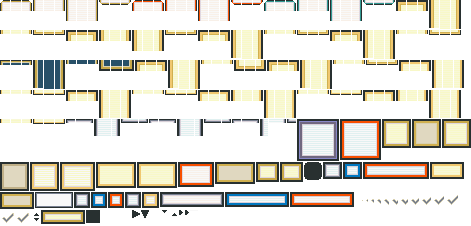
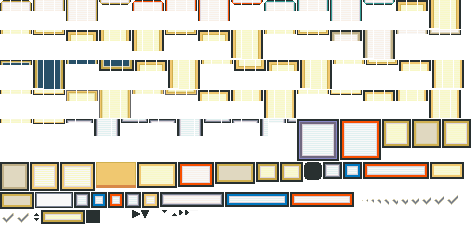
FireRed 0.24: the bag, trainer card and dex get their own screens
Bag: a bag-list role paints the list frame grey/gold/pale-yellow off the
Interface & Bag kit, a bespoke painter gives the selected pocket tab its
flat gold face and D88848 open-pocket underline, and the item square
moves to ui-box.background, which already carries a selected state.

Trainer card: MainTCTexture is one 454x287 stretched slice, so a
paint_trainer_card painter draws the whole card - teal 1:3 ground,
rounded grey-ringed white card, 68A0D8 header band, 1:1 scanlined body,
eight rounded badge slots. Until now it was a glyph recolour of stock.

Dex: ui-inner-frame-tabbed-dex gets a taupe-over-tan dex-frame role.

The atlas builder grows a per-atlas special={name: painter} hook for
slices that are compositions rather than panels. info.xml description
also loses the copy-paste garble it had carried since 0.2x.

Smoke-tested on the macOS client: 0.24 applied, theme loads in 375ms,
no errors. In-game screens await a logged-in test.

Claude-Session: https://claude.ai/code/session_017SQ5osqtQSVmm6Uk3D2pzF

diff --git a/tools/build_firered_atlas.py b/tools/build_firered_atlas.py
@@ -90,6 +90,16 @@ TAN      = (0xE0, 0xD8, 0xC0)
 TEAL     = (0x30, 0x98, 0x90)
 TEAL_LT  = (0x50, 0xC8, 0xB0)
 DISABLED = (0xC0, 0xB0, 0x88)
+# The bag list panel and pocket tabs, off the Interface & Bag kit.
+BAG_GREY  = (0x68, 0x68, 0x68)   # its outer ring is grey, not #283030
+BAG_BEVEL = (0xE8, 0xE0, 0xA8)
+ORANGE_UL = (0xD8, 0x88, 0x48)   # the open-pocket underline
+# The trainer card, off the Trainer Card Kit.
+CARD_GREY   = (0x60, 0x60, 0x70)
+CARD_ACC    = (0xA0, 0xA0, 0xA0)
+HEADER_BLUE = (0x68, 0xA0, 0xD8)
+HEADER_EDGE = (0x48, 0x78, 0xA8)
+CARD_ICE    = (0xE0, 0xF0, 0xF0)
 # Read straight off the HP Bars kit in PokemonFireRedRef/001/, which agrees
 # pixel for pixel with what was measured from the screenshots earlier.
 HP_SHADOW = (0x50, 0x68, 0x60)   # the plate's drop shadow
@@ -144,6 +154,12 @@ ROLES = {
                                                           (HP_FILL, HP_FILL), False),
     "hpbar":      ([(HP_TRACK, 1)],                       (HP_GREEN, HP_GREEN2), False),
     "hpbar-gold": ([(HP_TRACK, 1)],                       (HP_GOLD, HP_GOLD), False),
+    # The bag list panel, measured off the Interface & Bag kit: grey outer,
+    # double gold band, warm bevel, pale-yellow fill. Square corners.
+    "bag-list":   ([(BAG_GREY, 2), (GOLD_LT, 3), (GOLD_DK, 2), (BAG_BEVEL, 1)],
+                                                          (PALE, PALE_2),   False),
+    # The dex frame: taupe over tan, the one screen FireRed keeps earthy.
+    "dex-frame":  ([(OUTER, 2), (DISABLED, 2), (TAN, 1)], (CREAM, WHITE),   False),
 }
 
 # name prefix -> role. Longest prefix wins, so specific beats general.
@@ -152,7 +168,9 @@ ROLE_BY_PREFIX = [
     ("ui-frame-green",            "frame-green"),
     ("ui-frame",                  "frame"),
     ("ui-inner-frame-inverted",   "inverted"),
+    ("ui-inner-frame-tabbed-dex", "dex-frame"),
     ("ui-inner-frame-tabbed",     "inner"),
+    ("ui-inner-frame-tab2",       "bag-list"),
     ("ui-inner-frame-tab",        "tab"),
     ("ui-inner-tab",              "tab"),
     ("ui-inner-roundedframe",     "inner"),
@@ -334,6 +352,82 @@ def role_ingame(name):
     return None
 
 
+def paint_bag_tab(px, rect):
+    """The bag's selected pocket tab, off the Interface & Bag kit: flat
+    light-gold face, dark-gold ring, and the orange underline FireRed uses to
+    mark the open pocket. Flat is correct here -- accent bars are the one
+    surface the spec leaves unstriped. Stock splits (L12,R12, no splity)
+    stretch the middle, and the underline spans the full width so it
+    survives the stretch."""
+    x0, y0, w, h = rect
+    for yy in range(h):
+        for xx in range(w):
+            if yy >= h - 3:
+                c = ORANGE_UL
+            elif xx == 0 or xx == w - 1 or yy == 0:
+                c = GOLD_DK
+            else:
+                c = GOLD_LT
+            px[x0 + xx, y0 + yy] = c + (255,)
+
+
+def _rounded_depth(xx, yy, x0, y0, x1, y1, r):
+    """How many pixels inside a rounded rect (>=1), or 0 if outside."""
+    if xx < x0 or xx > x1 or yy < y0 or yy > y1:
+        return 0
+    dx = min(xx - x0, x1 - xx)
+    dy = min(yy - y0, y1 - yy)
+    if dx >= r or dy >= r:
+        return min(dx, dy) + 1
+    ex, ey = r - dx, r - dy
+    d = r - (ex * ex + ey * ey) ** 0.5
+    return max(0, int(d) + 1)
+
+
+def paint_trainer_card(px, rect):
+    """The whole trainer card in one texture, as the kit draws it: the teal
+    1:3 striped ground, a rounded white card with a grey double ring, the
+    #68A0D8 header band, a 1:1 scanlined body and a row of eight rounded badge
+    slots along the bottom. Stock is a single 454x287 area with no splits, so
+    the widget stretches it whole and every band scales with it."""
+    x0, y0, w, h = rect
+    inset, r = 4, 10
+    cx0, cy0, cx1, cy1 = inset, inset, w - 1 - inset, h - 1 - inset
+    header_h = 46
+    badge, gap = 34, (w - 2 * inset - 8 * 34) // 9
+    badge_y0 = h - inset - 14 - badge
+    for yy in range(h):
+        for xx in range(w):
+            d = _rounded_depth(xx, yy, cx0, cy0, cx1, cy1, r)
+            if d == 0:                       # the striped ground outside
+                c = TEAL if yy % 4 == 0 else TEAL_LT
+            elif d <= 2:
+                c = CARD_GREY
+            elif d == 3:
+                c = CARD_ACC
+            elif yy - cy0 < 3 + header_h:    # the header band
+                c = HEADER_EDGE if yy - cy0 == 2 + header_h else HEADER_BLUE
+            else:
+                c = WHITE if yy % 2 else CARD_ICE
+                if badge_y0 <= yy < badge_y0 + badge:
+                    slot = -1
+                    for i in range(8):
+                        bx = inset + gap + i * (badge + gap)
+                        if bx <= xx < bx + badge:
+                            slot = i
+                            break
+                    if slot >= 0:
+                        bx = inset + gap + slot * (badge + gap)
+                        sd = _rounded_depth(xx, yy, bx, badge_y0,
+                                            bx + badge - 1,
+                                            badge_y0 + badge - 1, 8)
+                        if sd == 1:
+                            c = CARD_ACC
+                        elif sd > 1:
+                            c = CARD_ICE
+            px[x0 + xx, y0 + yy] = c + (255,)
+
+
 def role_generic(name):
     """res/main-hud.png is misnamed: it is the primary generic widget atlas.
     frame.background, 38 button.* states, table-row, table-header, label1..7 and
@@ -363,7 +457,8 @@ def role_generic(name):
 
 ATLASES = [
     dict(file="res/pokemmo_ui.png", source="gfx_ui.xml", out="gfx_ui-firered.xml",
-         table=None, glyphs=GLYPH_PREFIXES, keep=()),
+         table=None, glyphs=GLYPH_PREFIXES, keep=(),
+         special={"ui-tab.active.color": paint_bag_tab}),
     dict(file="res/user-interface.png", source="gfx.xml", out="gfx-firered.xml",
          table=ROLE_BY_PREFIX_IF, glyphs=("progressbar.progressImage_never",),
          keep=KEEP_PREFIXES_IF),
@@ -379,12 +474,18 @@ ATLASES = [
         ("res/battle-hud.png",    "battlehud-firered.xml"),
         ("res/pc_slots.png",      "pcslots-firered.xml"),
         ("res/pc-window.png",     "pcwindow-firered.xml"),
-        ("res/MainTCTexture.png", "traincard-firered.xml"),
         ("res/contestgui.png",    "contest-firered.xml"),
         ("res/caught-window.png", "caught-firered.xml"),
         ("res/breedwindow.png",   "breed-firered.xml"),
         ("res/preview-field.png", "preview-firered.xml"),
     ]
+] + [
+    # The trainer card is one 454x287 texture, so it gets a bespoke painter
+    # rather than a role: the glyph recolour that handled it through 0.23 kept
+    # the stock composition, which is not FireRed's card at all.
+    dict(file="res/MainTCTexture.png", source="gfx.xml", out="traincard-firered.xml",
+         table=None, glyphs=(), keep=(), resolver=role_ingame,
+         special={"trainer-card.background": paint_trainer_card}),
 ] + [
     dict(file="res/text-bubble.png", source="gfx.xml", out="textbubble-firered.xml",
          table=None, glyphs=(), keep=(), resolver=role_dialogue),
@@ -601,15 +702,32 @@ def build(spec, report=False):
 
     named = [a for a in out_el.iter("area")
              if a.get("xywh") and id(a) not in in_grid]
+    special = spec.get("special") or {}
+
+    def key_of(name):
+        # A bespoke painter beats any role. The tuple key keeps two specials
+        # sharing a rect from collapsing into one slot.
+        if name in special:
+            return ("special", name)
+        return role_of(name)
+
     groups = defaultdict(list)
     for a in named:
-        groups[(rect_of(a), role_of(owning_name(a)))].append(a)
+        groups[(rect_of(a), key_of(owning_name(a)))].append(a)
 
     for (rect, role), els in sorted(groups.items(), key=lambda kv: -kv[0][0][3]):
         for a in els:
             if "-" in a.get("xywh"):
                 flipped.append(a.get("name") or owning_name(a))
         dst = packer.place(rect[2], rect[3])
+        if isinstance(role, tuple):
+            for a in els:
+                a.set("xywh", "%d,%d,%d,%d" % dst)
+                if a.get("tint"):
+                    del a.attrib["tint"]   # painted outright, same as panels
+                clamp_split(a, dst, clamped)
+            jobs.append(("special", dst, special[role[1]]))
+            continue
         for a in els:
             a.set("xywh", "%d,%d,%d,%d" % dst)
             if role not in (None, "keep") and a.get("tint"):
@@ -648,7 +766,9 @@ def build(spec, report=False):
     counts = defaultdict(int)
     for kind, dst, payload in jobs:
         counts[kind] += 1
-        if kind == "glyph":
+        if kind == "special":
+            payload(px, dst)
+        elif kind == "glyph":
             recolour_glyph(px, src, payload, dst)
         elif kind == "keep":
             out.paste(src.crop((payload[0], payload[1],
